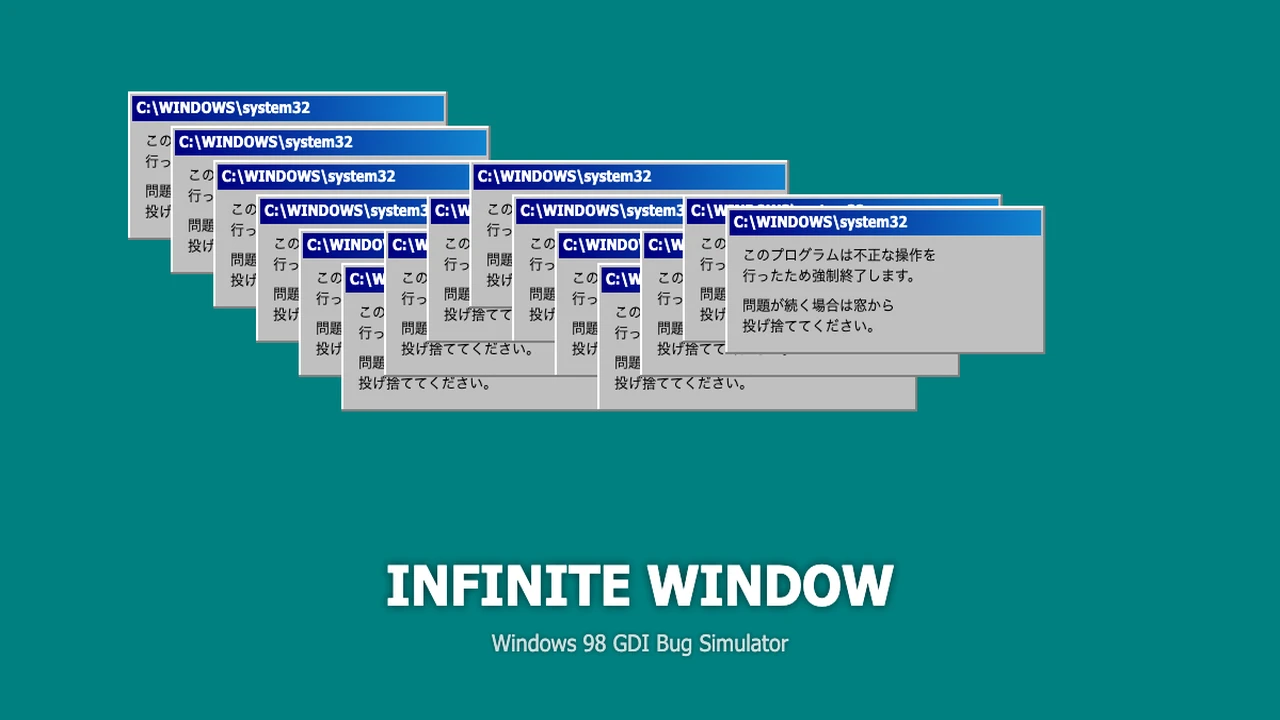
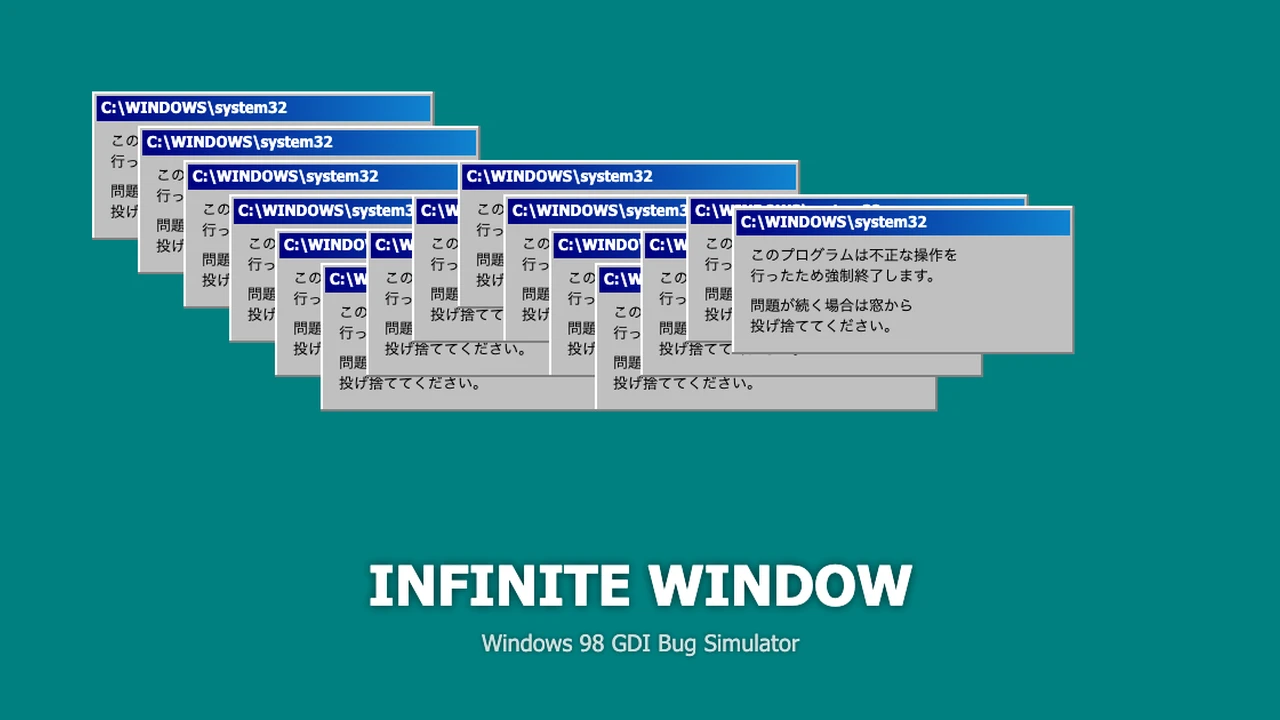
サムネ全面差替: ユーザー提供画像をそのまま使用（走馬灯16枚・nines・ASCII Art・SHEET MOVIE・INFINITE WINDOW・生成新聞） + cache buster v5

diff --git a/index.html b/index.html
@@ -316,7 +316,7 @@
         const title = item.title;
         const href = item.url ? ` href="${item.url}" target="_blank" rel="noopener"` : '';
         const slug = slugify(item.url);
-        const thumbUrl = `thumbs/${slug}.webp?v=4`;
+        const thumbUrl = `thumbs/${slug}.webp?v=5`;
         const hiddenClass = idx >= VISIBLE_COUNT ? ' hidden-panel' : '';
 
         let badgeHtml = '';
